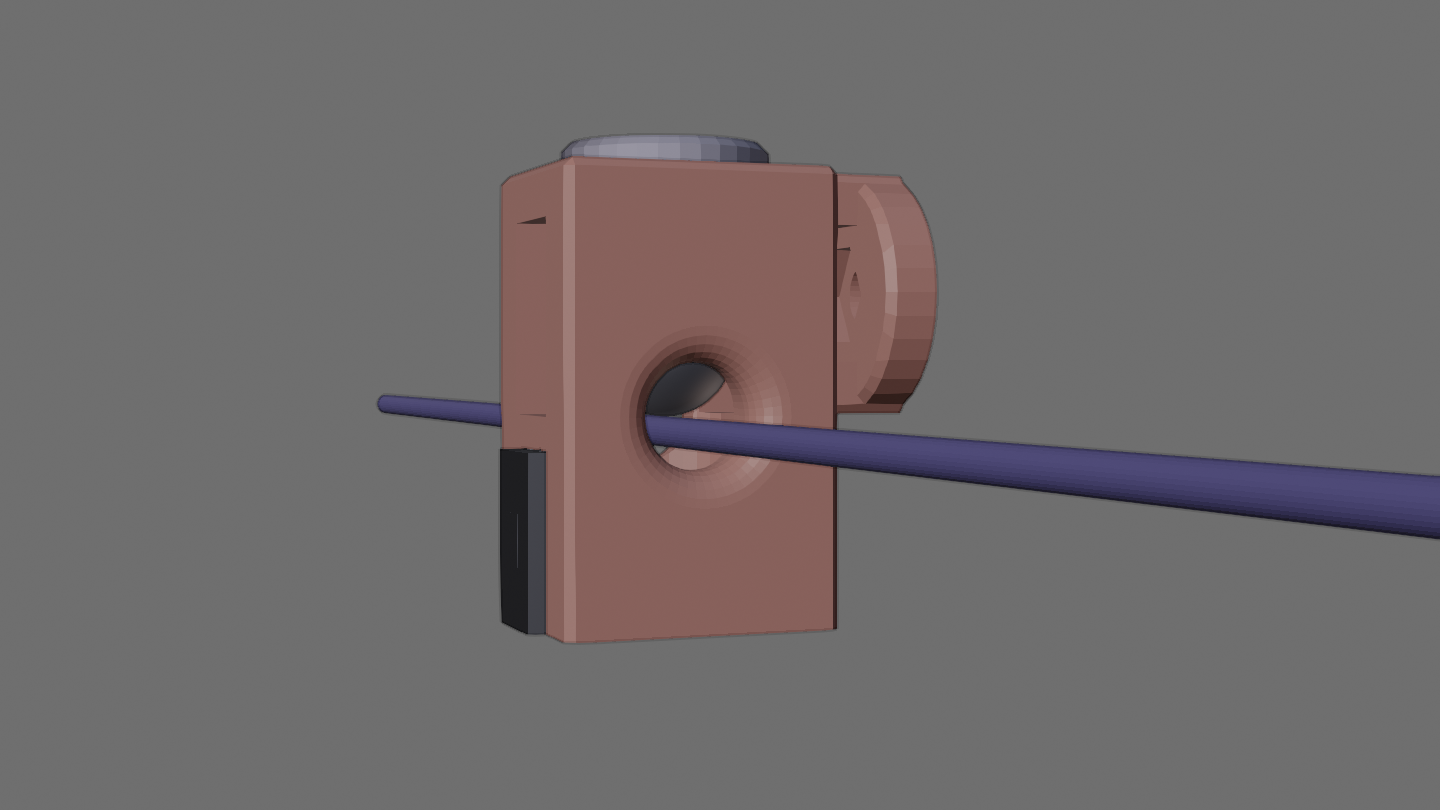
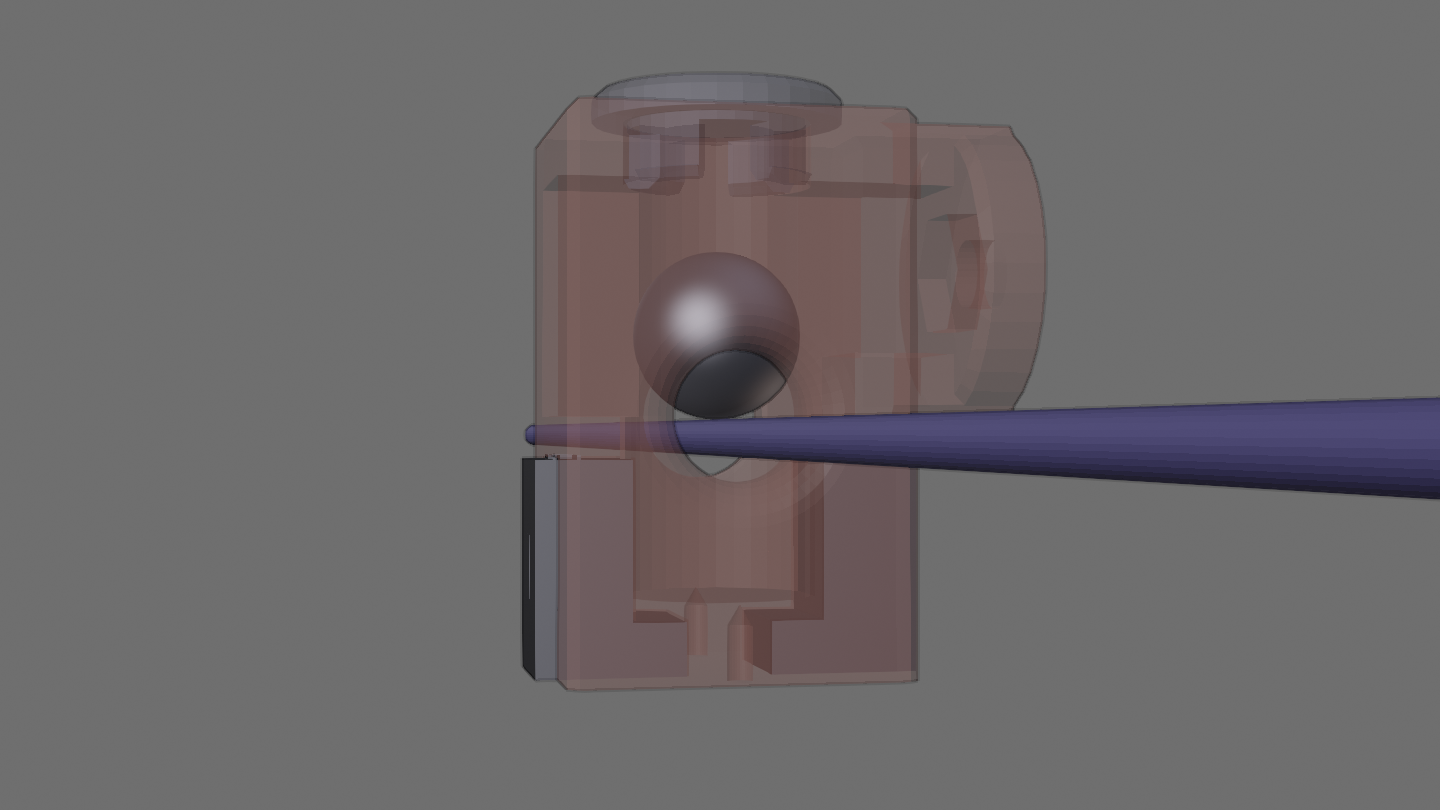
edit

Changed region(s): [[0.25, 0.1235, 1.0, 0.8642], [0.4062, 0.0926, 0.4375, 0.1235]]

diff --git a/README.md b/README.md
@@ -5,7 +5,7 @@
 <br>
 
 ## Operation
-A steel ball (8 mm) rolls above the filament and drops into a light barrier if the filament runs out. To reload filament a magnet is used to lift the steel ball. A cap allows opening and cleaning.
+A steel ball is caught above the filament and drops into a light barrier if filament runs out. To reload filament a magnet is used to lift the steel ball. A cap allows closing and opening the housing.
 
 ### LED
 Filament state is indicated by LED
@@ -15,7 +15,7 @@ loaded
 runout
 
 ### Assembly
-The three housing parts are printed flat sides down with support enabled at about 20 % fill rate. The parts are now glued together with hard plastic glue or superglue and the seams welded with a soldering iron (at about 200 °C for PLA). The fork light barrier is cut in half and plugged into the housing bottom. A suitable piece of perforated or drilled PCB is soldered to the light barrier leads. The PCB might be screwed to the little holes on the housing bottom. Electronic components and printer connector are now soldered on the PCB.
+The three housing parts are printed flat sides down with support enabled at about 20 % fill rate. After printing the housing halves are glued together with hard plastic glue or superglue and the seams welded with a soldering iron (at about 200 °C for PLA). The fork light barrier is cut in half and plugged into the housing bottom. A suitable piece of perforated or drilled PCB is soldered to the light barrier leads. The PCB can be screwed to the little holes on the housing bottom. The little holes may need careful re-drilling according to the used screws. Electronic components, LED and printer connector are now soldered on the PCB. An 8 mm steel ball is put into the housing, the printed cap snap-closes it. 
 
 ### Files
 [-> 3d print](stl)   
@@ -47,34 +47,29 @@ A mounting bracket allows adjusting tilt and top angle
 <br>
 <br>
 
-Steel ball above light barrier   
-<img src="images/view_04.jpg" width=640>
-<br>
-<br>
-
 ## Renders
 
-Front   
+Steel ball above filament   
 <img src="images/render_01.png" width=640>
 <br>
 <br>
 
-Side   
+Steel ball dropped into light barrier   
 <img src="images/render_02.png" width=640>
 <br>
 <br>
 
-Light barrier cut in half   
+Bottom with light barrier halves   
 <img src="images/render_03.png" width=640>
 <br>
 <br>
 
-Steel ball above filament   
+Front   
 <img src="images/render_04.png" width=640>
 <br>
 <br>
 
-Steel ball dropped   
+Side   
 <img src="images/render_05.png" width=640>
 <br>
 <br>
@@ -89,4 +84,4 @@ Steel ball dropped
 
 ---
 
-[qrt@qland.de](mailto:qrt@qland.de) 210706
+[qrt@qland.de](mailto:qrt@qland.de) 210707
